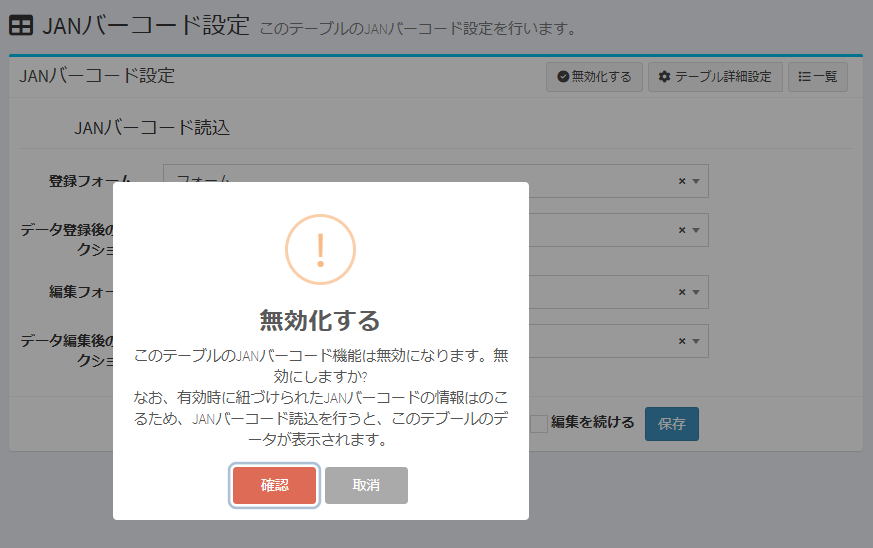
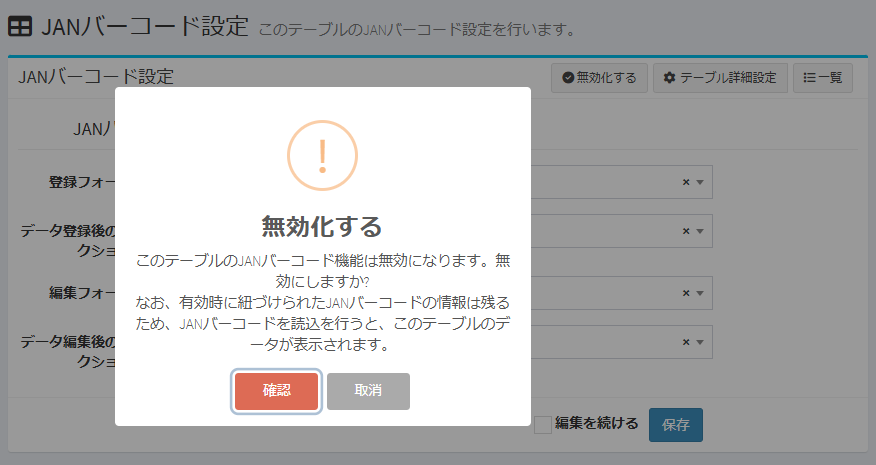
update v6.2.2

diff --git a/docs/login_oauth.md b/docs/login_oauth.md
@@ -58,7 +58,7 @@ http(s)://(Exment URL)/admin/auth/login/(socialite provider name)/callback
 - Run the following command in the Exment root directory:
 
 ~~~
-composer require exment-oauth/microsoft-graph
+composer require exceedone/microsoft-graph
 ~~~
 
 - Carry out [Screen Settings](#On-screen-settings).
@@ -137,7 +137,8 @@ If YES, user information such as username will be updated when re-login.
 - Once you save your data at least once, the Activate button and the Test Login button will be displayed.
 
 - If the enable flag is set to YES, a button for SSO authentication will be displayed on the login screen.   
-※Normally, the default login form for entering the user ID and password will also be displayed. You can hide it as shown in the image in [SSO Settings](/system_setting?id=sso-settings).
+※Normally, the default login form for entering the user ID and password will also be displayed. You can hide it as shown in the image in [SSO Settings](/system_setting?id=sso-settings).  
+
 ![SSO login screen](img/quickstart/sso1.png)
 
 
@@ -262,6 +263,22 @@ class MicrosoftGraphProvider extends Provider implements ProviderAvatar
         }
         return null;
     }
+
+    /**
+     * Get the logout URL for the OAuth provider.
+     *
+     * @param string|null $redirectUri The URI to redirect to after logout.
+     * @return string The logout URL.
+     */
+    public function getLogoutUrl(?string $redirectUri = null)
+    {
+        $logoutUrl = sprintf('https://login.microsoftonline.com/%s/oauth2/logout', $this->getConfig('tenant', 'common'));
+
+        return $redirectUri === null ?
+            $logoutUrl :
+            $logoutUrl.'?'.http_build_query(['post_logout_redirect_uri' => $redirectUri], '', '&', $this->encodingType);
+    }
+
 }
 
 ~~~
@@ -301,14 +318,35 @@ Also, the class name written in @handle is often listed in the manual of the pro
 ~~~php
 
 // Example: Microsoft Graph
+<?php
 
-protected $listen = [
-    // ... other listeners
-    \SocialiteProviders\Manager\SocialiteWasCalled::class => [
-        // ... other providers
-        \SocialiteProviders\Graph\GraphExtendSocialite::class.'@handle',
-    ],
-];
+namespace App\Providers;
+
+use Illuminate\Support\Facades\Event;
+use Illuminate\Foundation\Support\Providers\EventServiceProvider as ServiceProvider;
+
+class EventServiceProvider extends ServiceProvider
+{
+    /**
+     * The event listener mappings for the application.
+     *
+     * @var array
+     */
+    protected $listen = [
+        // If you have developed your own avatar retrieval
+        'App\Events\Event' => [
+            'App\Listeners\EventListener',
+        ],
+        
+        // Additional
+        \SocialiteProviders\Manager\SocialiteWasCalled::class => [
+            '\App\Socialite\GraphExtendSocialite@handle', // If you have developed your own avatar retrieval
+            // 'SocialiteProviders\\Graph\\GraphExtendSocialite@handle', // For normal retrieval, comment this out and use it
+        ],
+    ];
+
+    // ...
+}
 ~~~
 ~~~php
 

diff --git a/docs/ja/login_oauth.md b/docs/ja/login_oauth.md
@@ -58,7 +58,7 @@ http(s)://(ExmentのURL)/admin/auth/login/(socialiteのprovider名)/callback
 - 以下のコマンドを、Exmentのルートディレクトリで実行します。
 
 ~~~
-composer require exment-oauth/microsoft-graph
+composer require exceedone/microsoft-graph
 ~~~
 
 - [画面での設定](#画面での設定)を実施します。
@@ -288,34 +288,34 @@ class GraphExtendSocialite
 また、「@handle」に記載のクラス名は、[Socialite Providers](https://socialiteproviders.github.io/)で追加したプロバイダのマニュアルに、多くの場合記載されていますので、ご確認ください。
 
 ~~~ php
-<?php
 
-namespace App\Providers;
+// 例：Microsoft Graphの場合
 
-use Illuminate\Support\Facades\Event;
-use Illuminate\Foundation\Support\Providers\EventServiceProvider as ServiceProvider;
+protected $listen = [
+    ///// アバターの取得のために独自開発を行った場合
+    'App\Events\Event' => [
+        'App\Listeners\EventListener',
+    ],
+    
+    /// 追加
+    \SocialiteProviders\Manager\SocialiteWasCalled::class => [
+        '\App\Socialite\GraphExtendSocialite@handle', ///// アバターの取得のために独自開発を行った場合
+        // 'SocialiteProviders\\Graph\\GraphExtendSocialite@handle', ///// 通常の取得の場合は、こちらをコメントアウトして記載
+    ],
+];
 
-class EventServiceProvider extends ServiceProvider
-{
-    /**
-     * The event listener mappings for the application.
-     *
-     * @var array
-     */
-    protected $listen = [
-        'App\Events\Event' => [
-            'App\Listeners\EventListener',
-        ],
-        
-        /// 追加
-        \SocialiteProviders\Manager\SocialiteWasCalled::class => [
-            '\App\Socialite\GraphExtendSocialite@handle', ///// アバターの取得のために独自開発を行った場合
-            // 'SocialiteProviders\\Graph\\GraphExtendSocialite@handle', ///// 通常の取得の場合は、こちらをコメントアウトして記載
-        ],
-    ];
+~~~
+~~~php
 
-    // ...
-}
+// 例：EntraIDの場合
+
+protected $listen = [
+    // ... other listeners
+    \SocialiteProviders\Manager\SocialiteWasCalled::class => [
+        // ... other providers
+        \SocialiteProviders\Microsoft\MicrosoftExtendSocialite::class.'@handle',
+    ],
+];
 
 ~~~
 

diff --git a/docs/ja/release_note.md b/docs/ja/release_note.md
@@ -1,6 +1,28 @@
 # リリースノート
 ※パッチ・脆弱性リストは[こちら](/ja/patch_weakness)
 
+## v6.2.2 (2025/02/27)
+1. 機能修正
+    - ログイン設定でシングルサインアウト(Single Logout)を指定できるように設定項目を追加
+    - SSOログイン後にログアウトする際、シングルサインアウトの指定がある場合、Exmentログイン画面にリダイレクトするように修正
+　　　 ※Oktaは対象外です
+
+
+## v6.2.1 (2025/02/12)
+1. 機能修正
+    - 役割グループ設定のインポート/エクスポートができるように修正
+    - データ更新設定で、空欄や未選択に更新できるように修正
+    - カスタムテーブル別の「行クリック時に編集画面遷移」ができるように修正
+1. 不具合修正
+    - フリーワード検索時のエラーの不具合修正 (laravel-admin)
+    - ページあたり行数を変更すると特定の条件でエラーの不具合修正 (laravel-admin)
+    - エクスポートのエラー（テーブル表示名に特定文字の場合）について不具合の修正
+    - 複数選択可の画像orファイルのインポートでエラーになる不具合の修正
+1. その他
+    - JANバーコード対応で、JSバージョンを v0.21.2 → v0.21.3 へアップデート、一部テキスト誤字修正
+    - カレンダーのJSバージョンをアップデートおよびアップデートに合わせた修正
+
+
 ## v6.2.0 (2024/12/24)
 1. 機能追加
     - JANバーコード機能の追加

diff --git a/docs/release_note.md b/docs/release_note.md
@@ -1,6 +1,28 @@
 # Release notes
 * Click [here](/patch_weakness) for the patch / vulnerability list.
 
+## v6.2.2 (2025/02/27)
+1. Functionality fixes
+    - Added a setting item to allow you to specify Single Sign-Out in the login settings
+    - Modified to redirect to the Exment login screen when logging out after SSO login if Single Sign-Out is specified
+      *Okta is not included
+
+
+## v6.2.1 (2025/02/12)
+1. Feature fixes
+    - Fixed to allow import/export of role group settings
+    - Fixed to allow updating to blank or unselected in data update settings
+    - Fixed to allow "edit screen transition when row is clicked" for each custom table
+1. Bug fixes
+    - Fixed bug of error during free word search (laravel-admin)
+    - Fixed bug of error under certain conditions when changing the number of rows per page (laravel-admin)
+    - Fixed bug of export error (when table display name contains certain characters)
+    - Fixed bug of error when importing images or files with multiple selections
+1. Others
+    - JAN barcode support, JS version updated from v0.21.2 to v0.21.3, some text typos fixed
+    - Updated the calendar's JS version and made corrections to match the update
+
+
 ## v6.2.0 (2024/12/24)
 1. Added features
     - Added JAN barcode function
